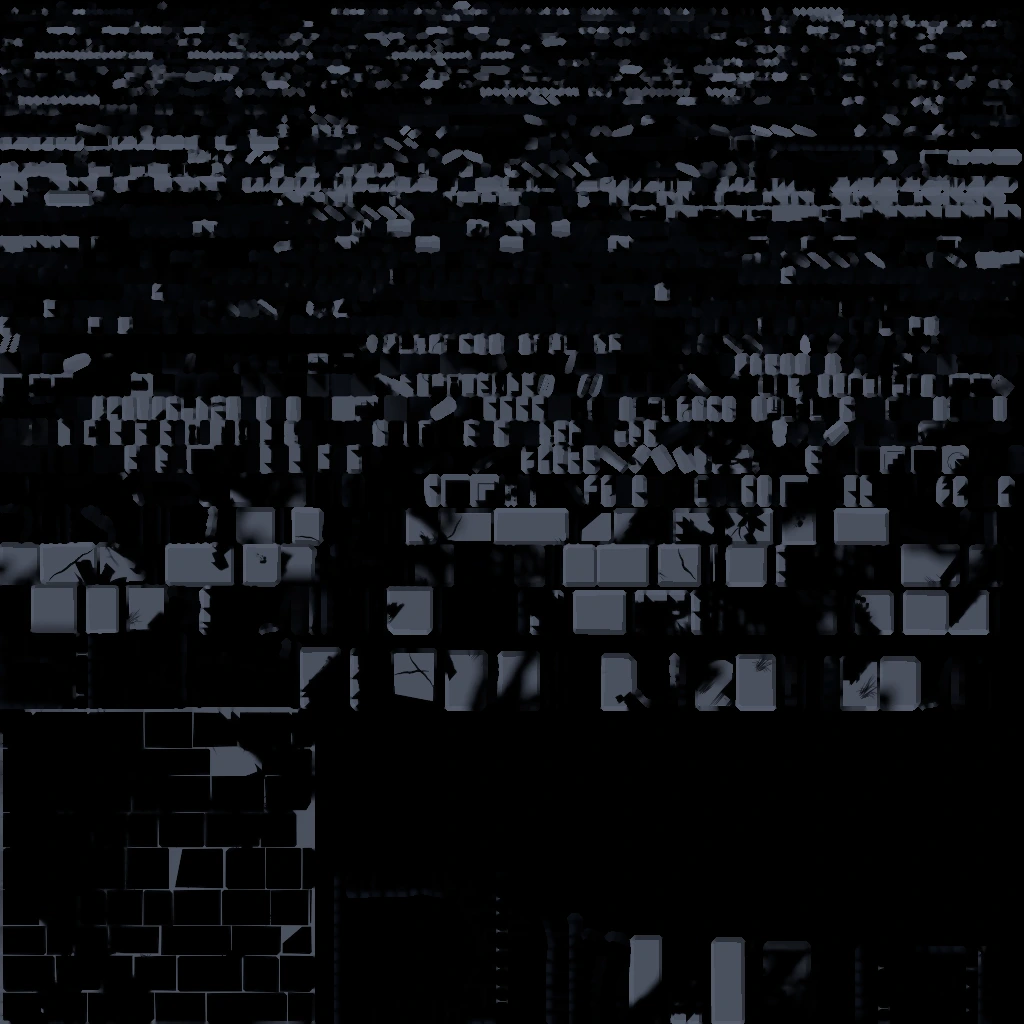
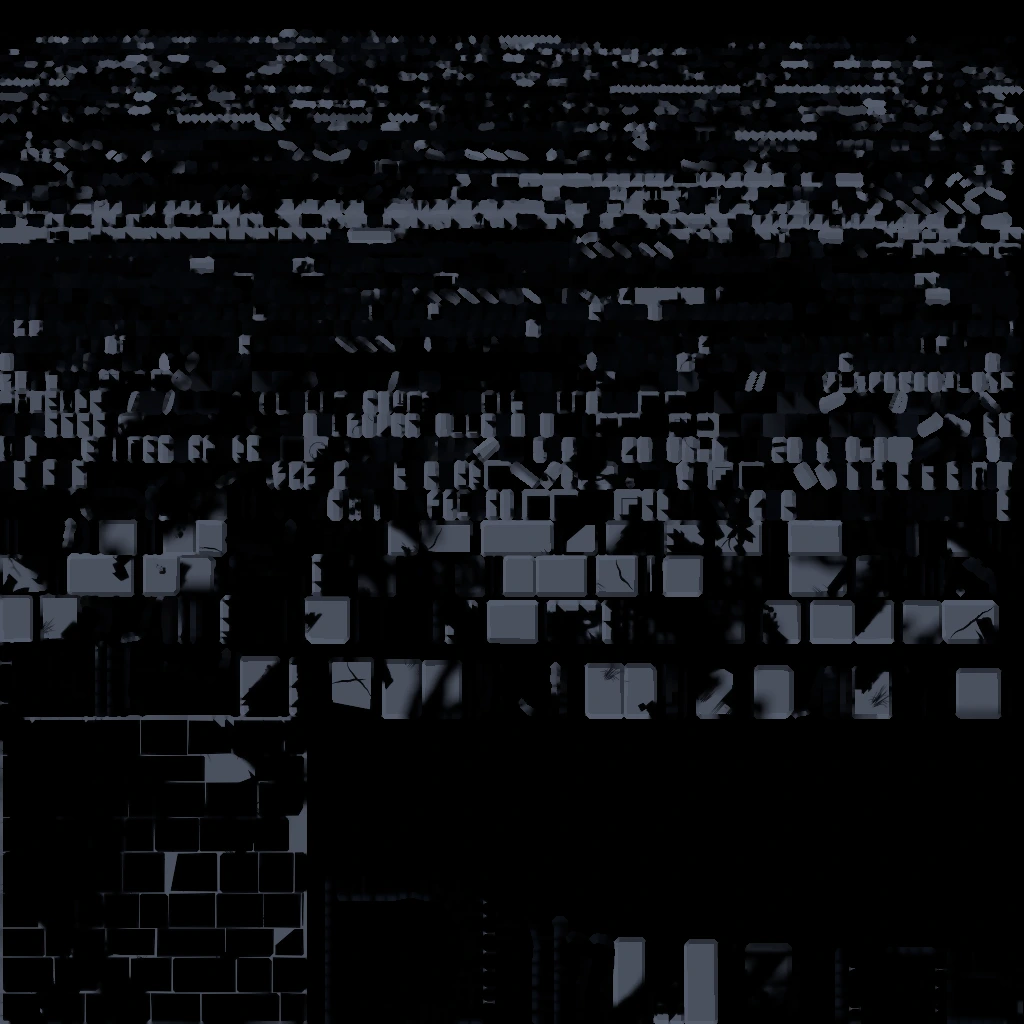
Paint each region's emblem in the Observatory, and give the Knight his corner
Each region's people get an emblem on a painted shield (weavers, clockmakers,
lantern folk, cathedral builders); the Knight's portrait, shield and sword stand
on the Observatory's left wall. One WallArt piece draws them: grey in ruin, their
colour and painted gold back when the room is restored. Region 1's hanging root
frames its emblem; Region 2's hatch gave way to its emblem and its lamp moved.
Region 1 and 2 Observatories rebaked.

diff --git a/apps/web/src/world/observatory/KnightCorner.tsx b/apps/web/src/world/observatory/KnightCorner.tsx
@@ -1,0 +1,110 @@
+import { useTexture } from "@react-three/drei";
+import { useMemo } from "react";
+import { BoxGeometry, CylinderGeometry, ExtrudeGeometry, Shape, SphereGeometry } from "three";
+import { color, mix, vec3 } from "three/tsl";
+import { MeshStandardNodeMaterial } from "three/webgpu";
+import { paintedMaterial, WallArt } from "../room/WallArt";
+import { ruinHere } from "../ruin";
+
+// The Knight's corner in his base (0052: one or two traces of the Knight; 0091): his portrait painted
+// on the left wall, his shield and sword leaning against it below. Shield and sword are made here, in
+// the palace's carved look (0089): iron, worn wood, a painted face.
+
+const FACE = -3.965; // the left wall's inner face (x)
+const SHIELD_W = 0.72; // metres across the shield's full width
+const SHIELD_H = (SHIELD_W * 600) / 512;
+const DEPTH = 0.035;
+const LEAN = 0.2; // radians back toward the wall
+
+/** A plain material that greys and darkens in ruin, like the room's own. */
+function worn(hex: string, { metalness = 0, roughness = 0.8 } = {}) {
+  const m = new MeshStandardNodeMaterial({ metalness, roughness });
+  const c = color(hex);
+  m.colorNode = mix(c, vec3(c.r.add(c.g).add(c.b).div(3)).mul(0.55), ruinHere.mul(0.8));
+  return m;
+}
+
+/** A heater shield, the same outline as the painted emblems (512 × 600 picture space, in 0–1). */
+function shieldGeometry(): ExtrudeGeometry {
+  const p = (x: number, y: number): [number, number] => [x / 512, 1 - y / 600];
+  const s = new Shape();
+  s.moveTo(...p(24, 24));
+  s.lineTo(...p(488, 24));
+  s.lineTo(...p(488, 250));
+  s.bezierCurveTo(...p(488, 420), ...p(380, 520), ...p(256, 580));
+  s.bezierCurveTo(...p(132, 520), ...p(24, 420), ...p(24, 250));
+  s.closePath();
+  // Extruded in picture space so its face's UVs are the picture's; then scaled to metres (x, y only).
+  const g = new ExtrudeGeometry(s, {
+    depth: DEPTH,
+    bevelEnabled: true,
+    bevelThickness: 0.008,
+    bevelSize: 0.012 / SHIELD_W,
+    bevelSegments: 2,
+    curveSegments: 16,
+  });
+  g.translate(-0.5, -0.5, 0);
+  g.scale(SHIELD_W, SHIELD_H, 1);
+  return g;
+}
+
+function Shield({ along }: { along: number }) {
+  const map = useTexture("/art/knight-shield.webp");
+  const { geometry, materials } = useMemo(
+    () => ({
+      geometry: shieldGeometry(),
+      // Group 0 is the face (and back), group 1 the rim.
+      materials: [paintedMaterial(map, { aspect: 512 / 600, seed: 11 }), worn("#5A4636")],
+    }),
+    [map],
+  );
+  // Its foot on the floor, its back against the wall, leaning back a little.
+  const h = SHIELD_H * 0.92; // the point sits a little above the bottom of the picture
+  return (
+    <group position={[FACE, 0, along]} rotation={[0, Math.PI / 2, 0]}>
+      <mesh
+        geometry={geometry}
+        material={materials}
+        position={[0, (h / 2) * Math.cos(LEAN), (h / 2) * Math.sin(LEAN) + DEPTH]}
+        rotation={[-LEAN, 0, 0]}
+        castShadow
+        receiveShadow
+      />
+    </group>
+  );
+}
+
+function Sword({ along }: { along: number }) {
+  const parts = useMemo(() => {
+    const iron = worn("#9A9DA3", { metalness: 0.3, roughness: 0.45 });
+    const bronze = worn("#9C7A45", { metalness: 0.3, roughness: 0.5 });
+    const leather = worn("#4A3628");
+    return [
+      { g: new BoxGeometry(0.05, 0.82, 0.012), m: iron, y: 0.41 }, // blade
+      { g: new BoxGeometry(0.26, 0.035, 0.04), m: bronze, y: 0.84 }, // crossguard
+      { g: new CylinderGeometry(0.016, 0.016, 0.16, 10), m: leather, y: 0.94 }, // grip
+      { g: new SphereGeometry(0.03, 12, 8), m: bronze, y: 1.04 }, // pommel
+    ];
+  }, []);
+  const lean = 0.16;
+  return (
+    <group position={[FACE, 0, along]} rotation={[0, Math.PI / 2, 0]}>
+      <group position={[0, 0, 0.035 + 1.04 * Math.sin(lean)]} rotation={[-lean, 0, 0.05]}>
+        {parts.map((p) => (
+          <mesh key={p.y} geometry={p.g} material={p.m} position={[0, p.y, 0]} castShadow />
+        ))}
+      </group>
+    </group>
+  );
+}
+
+/** Where the corner stands on the left wall (centre of the portrait, metres along z). */
+export function KnightCorner({ along = 1.2 }: { along?: number }) {
+  return (
+    <>
+      <WallArt url="/art/knight-portrait.webp" wall="left" along={along} y={2.05} width={0.95} aspect={512 / 768} />
+      <Shield along={along - 0.1} />
+      <Sword along={along - 0.55} />
+    </>
+  );
+}

diff --git a/apps/web/src/world/room/WallArt.tsx b/apps/web/src/world/room/WallArt.tsx
@@ -1,0 +1,92 @@
+import { useTexture } from "@react-three/drei";
+import { useMemo } from "react";
+import { PlaneGeometry, SRGBColorSpace, type Texture } from "three";
+import { dot, float, min, mix, mx_noise_float, smoothstep, texture, uv, vec2, vec3 } from "three/tsl";
+import { MeshStandardNodeMaterial } from "three/webgpu";
+import { ruinHere } from "../ruin";
+
+// Art the palace's builders painted on their walls (0088, 0091): a region's emblem on a shield, the
+// Knight's portrait, a fresco. Grey and dim in ruin; where the room is restored its colour comes back
+// and the painted gold glows. The gold is found in the picture itself (warm, saturated, bright), so
+// any picture works without a hand-drawn mask. A shape (a shield, an arched panel) keeps its own
+// outline with a few chips of paint missing; a fresco breaks off at its edges and loses patches of
+// plaster, so the wall behind shows through.
+
+const FACE = -3.965; // both walls' inner faces sit here (z for the back wall, x for the left)
+const OFF = 0.012; // just in front of the stone
+
+/** Which wall, how far along it (m, centre), how high (m, centre), how wide (m). */
+export type WallArtMark = {
+  url: string;
+  wall: "back" | "left";
+  along: number;
+  y: number;
+  width: number;
+  /** Width over height of the picture. */
+  aspect: number;
+  /** "shape": the picture's own outline (alpha); "fresco": broken plaster edges and missing patches. */
+  edges?: "shape" | "fresco";
+  seed?: number;
+};
+
+/**
+ * The painted look as a material: faded in ruin, its gold lit where restored, worn. Shared with the
+ * Knight's shield (its painted face).
+ */
+export function paintedMaterial(map: Texture, { edges = "shape", aspect = 1, seed = 0 } = {}) {
+  map.colorSpace = SRGBColorSpace;
+  map.anisotropy = 4;
+  const m = new MeshStandardNodeMaterial({ roughness: 0.95, metalness: 0 });
+  const sample = texture(map);
+  const rgb = sample.rgb;
+
+  // Ruin: the pigment fades to a dim grey with only a trace of its colour.
+  const grey = vec3(dot(rgb, vec3(0.299, 0.587, 0.114)));
+  const faded = mix(rgb, grey.mul(0.6), 0.85);
+  m.colorNode = mix(rgb, faded, ruinHere);
+
+  // The painted gold: warm (little blue against red), with real green in it (not terracotta), bright.
+  const r = rgb.r.max(0.001);
+  const gold = float(1)
+    .sub(smoothstep(0.16, 0.3, rgb.b.div(r)))
+    .mul(smoothstep(0.35, 0.5, rgb.g.div(r)))
+    .mul(smoothstep(0.3, 0.5, rgb.r));
+  const lit = float(1).sub(ruinHere);
+  // A little of its own colour too, so the paint isn't darker than the baked wall round it.
+  m.emissiveNode = rgb.mul(gold.mul(1.4).add(0.12)).mul(lit);
+
+  const at = uv();
+  const noise = (scale: number, offset: number) =>
+    mx_noise_float(at.mul(vec2(scale * aspect, scale)).add(seed + offset));
+  if (edges === "fresco") {
+    const edge = min(min(at.x, float(1).sub(at.x)), min(at.y, float(1).sub(at.y)));
+    const kept = smoothstep(0.0, 0.05, edge.add(noise(9, 0).mul(0.035)));
+    m.opacityNode = kept.mul(float(1).sub(smoothstep(0.52, 0.56, noise(2.2, 7.3))));
+  } else {
+    // Its own outline, with a few small chips where the paint has flaked off.
+    m.opacityNode = sample.a.mul(float(1).sub(smoothstep(0.62, 0.66, noise(5, 3.1))));
+  }
+  m.alphaTest = 0.5;
+  return m;
+}
+
+export function WallArt({ url, wall, along, y, width, aspect, edges = "shape", seed = 0 }: WallArtMark) {
+  const map = useTexture(url);
+  const { geometry, material } = useMemo(
+    () => ({
+      geometry: new PlaneGeometry(width, width / aspect),
+      material: paintedMaterial(map, { edges, aspect, seed }),
+    }),
+    [map, width, aspect, edges, seed],
+  );
+  const position: [number, number, number] = wall === "back" ? [along, y, FACE + OFF] : [FACE + OFF, y, along];
+  return (
+    <mesh
+      geometry={geometry}
+      material={material}
+      position={position}
+      rotation={[0, wall === "back" ? 0 : Math.PI / 2, 0]}
+      receiveShadow
+    />
+  );
+}

diff --git a/apps/web/src/world/observatory/ObservatoryScene.tsx b/apps/web/src/world/observatory/ObservatoryScene.tsx
@@ -6,6 +6,8 @@ import { useSession } from "../../engine/store";
 import { useRegion } from "../region";
 import { Board, Desk } from "../room/Furniture";
 import { MachineScene } from "../room/MachineScene";
+import { WallArt, type WallArtMark } from "../room/WallArt";
+import { KnightCorner } from "./KnightCorner";
 import { KnightLetter } from "./KnightLetter";
 import { LETTER, observatoryLayout } from "./layout";
 import { RUNE_GLOWS, Runes } from "./Runes";
@@ -29,6 +31,24 @@ export function useBarred(): (peer: string) => string | undefined {
   );
 }
 
+/** Each region's emblem on a shield painted on the Observatory's wall (0091), clear of runes and lamps. */
+const EMBLEM = { width: 1.1, aspect: 512 / 600 } as const;
+const EMBLEMS: Record<number, WallArtMark> = {
+  1: { ...EMBLEM, url: "/art/emblem-r1.webp", wall: "left", along: -2.0, y: 1.9 },
+  2: { ...EMBLEM, url: "/art/emblem-r2.webp", wall: "left", along: -2.1, y: 1.65 },
+  // Region 3: in the plaster panel between the corner and the first timber post.
+  3: { ...EMBLEM, url: "/art/emblem-r3.webp", wall: "left", along: -3.0, y: 1.9 },
+  // Region 4: in the plain bay before the tall window.
+  4: { ...EMBLEM, url: "/art/emblem-r4.webp", wall: "left", along: -3.0, y: 1.9 },
+};
+
+/**
+ * Where the Knight's corner stands on the left wall (0091), behind the second-door place (z 1.1–2.9)
+ * where a region has one: Region 3 (one door) uses the panel between the posts at 0 and 2; Region 4
+ * the plain bay after the window, clear of the shaft at 0.
+ */
+const KNIGHT_AT: Record<number, number> = { 1: 0.15, 2: 0.15, 3: 1.0, 4: 0.6 };
+
 export function ObservatoryScene({ arriving = false }: { arriving?: boolean }) {
   const roomId = useSession((s) => s.roomId);
   const barred = useBarred();
@@ -50,6 +70,9 @@ export function ObservatoryScene({ arriving = false }: { arriving?: boolean }) {
     >
       {/* The weavers' runes are Region 1's light; other regions bring their own (layout.glows). */}
       {region === 1 && <Runes />}
+      {/* The region's emblem, painted by its people (0091); the Knight's corner below his portrait. */}
+      {EMBLEMS[region] && <WallArt {...(EMBLEMS[region] as WallArtMark)} />}
+      <KnightCorner along={KNIGHT_AT[region] ?? 0.15} />
       {region === 4 && <Runes set="chapel" />}
       <KnightLetter position={LETTER} />
       <ScryingGlass position={[2.4, 0, 1.6]} region={region} />

diff --git a/apps/web/src/world/bake/manifest.ts b/apps/web/src/world/bake/manifest.ts
@@ -10,10 +10,10 @@ export const BAKES: Record<string, BakeEntry> = {
   "0a2e0f69": { id: "r1-corridor-h8-kit", size: 512, signature: "33e2bd89", v: "044bcbf0" },
   "33644963": { id: "r1-house-d1", size: 1024, signature: "e1e00696", v: "37deb0c4" },
   "6393e302": { id: "r1-house-d1-kit", size: 512, signature: "ba545ab7", v: "b3334979" },
-  c908125d: { id: "r1-observatory-d1", size: 1024, signature: "46c08437", v: "17601b85" },
-  "74952089": { id: "r1-observatory-d1-kit", size: 512, signature: "d9c6d7e0", v: "1e07ea6a" },
-  "563d9383": { id: "r1-observatory-d2", size: 1024, signature: "b93e2d48", v: "e4175274" },
-  "87afc64a": { id: "r1-observatory-d2-kit", size: 512, signature: "474d30fc", v: "b300741d" },
+  cb7c552a: { id: "r1-observatory-d1", size: 1024, signature: "3e4b82ba", v: "b166834c" },
+  "74952089": { id: "r1-observatory-d1-kit", size: 512, signature: "d9c6d7e0", v: "5785da23" },
+  f4d1c458: { id: "r1-observatory-d2", size: 1024, signature: "4069c5f9", v: "89517e06" },
+  "87afc64a": { id: "r1-observatory-d2-kit", size: 512, signature: "474d30fc", v: "969bd58a" },
   "8c072207": { id: "r2-corridor-h5", size: 1024, signature: "607c621a", v: "9de0d28b" },
   f7a1aac8: { id: "r2-corridor-h5-kit", size: 512, signature: "2a4330f3", v: "e38a4b6d" },
   e7a86ef2: { id: "r2-hall-d4", size: 1024, signature: "d71b4331", v: "df2c2bb8" },
@@ -22,8 +22,8 @@ export const BAKES: Record<string, BakeEntry> = {
   e00544a3: { id: "r2-hall-d5-kit", size: 512, signature: "2594e388", v: "06d15f4e" },
   e40aae05: { id: "r2-house-d1", size: 1024, signature: "14c5ed8c", v: "5f39b2fe" },
   "3cd22045": { id: "r2-house-d1-kit", size: 512, signature: "91b6afc1", v: "d11f8ff1" },
-  "772f67b9": { id: "r2-observatory-d1", size: 1024, signature: "c89891c6", v: "2c521889" },
-  aa890f27: { id: "r2-observatory-d1-kit", size: 512, signature: "5673873f", v: "a7401281" },
+  fd37274c: { id: "r2-observatory-d1", size: 1024, signature: "fcbd7184", v: "fc0c27ba" },
+  aa890f27: { id: "r2-observatory-d1-kit", size: 512, signature: "5673873f", v: "1806ea6f" },
   "16c854eb": { id: "r3-corridor-h5", size: 512, signature: "ee3791c6", v: "b11df23b" },
   "0c2f40b2": { id: "r3-corridor-h5-kit", size: 1024, signature: "8953c746", v: "adb8e33a" },
   "8c7e1275": { id: "r3-hall-d3-kit", size: 1024, signature: "9895e213", v: "b70a4244" },

diff --git a/apps/web/src/world/regions/works.ts b/apps/web/src/world/regions/works.ts
@@ -379,7 +379,7 @@ function rotated(g: BufferGeometry, at: V3, euler: V3): BufferGeometry {
 //
 // Gameplay keeps the middle: the keeper in front of the door, the workbench front left, the address
 // card right of the door, the Glass front right. The great gear train is on the back wall left of the
-// door; the card index right of it; a riveted hatch and a smaller train on the left wall.
+// door; the card index right of it; the sorters' emblem and a smaller train on the left wall.
 
 /** The Ruins kit pieces the Observatory keeps here: only the brick on the Knight's letter. */
 export function worksObservatoryPieces(_secondDoor: boolean): Placement[] {
@@ -426,11 +426,11 @@ export function worksObservatory(secondDoor: boolean) {
   vent(bag, steam, [-3.72, 1.75, -0.35], [-3.5, 1.75, -0.35]);
   gauge(bag, "left", -1.0, 2.35, 0.24, 0.13);
   gauge(bag, "back", 3.55, 2.4, 0.12, 0.11);
-  hatch(bag, "left", -2.1, 1.55, 0.38);
+  // The left wall's middle carries the sorters' emblem (0091) and, nearer the front, the Knight's corner.
   // A smaller train over the workbench, where the left wall has room.
   gearTrain(bag, gears, "left", 1.5, 2.05, { size: 0.62, a1: 2.3, a2: 2.6 });
   lamp(bag, glows, "back", -3.25, 2.5, 3.0);
-  lamp(bag, glows, "left", 0.3, 2.15, 3.2);
+  lamp(bag, glows, "left", 0.95, 2.15, 3.2);
   // A great gear fallen from a train, leaning against the card index.
   addTo(bag, "Brass", rotated(gearGeometry(0.42, 12, 0.07, 5), [1.95, 0.42, -3.45], [-0.25, 0.4, 0.2]));
   return {

diff --git a/apps/web/src/world/regions/halls.ts b/apps/web/src/world/regions/halls.ts
@@ -203,16 +203,22 @@ function observatoryRoots(secondDoor: boolean): BufferGeometry[] {
       strands: 2,
       seed: 15,
     },
-    // Over the broken top of the left wall's middle, hanging (above the routes board).
+    // Over the broken top of the left wall's middle, then trained round the top of the weavers'
+    // emblem (0091) and down its far side, clear of the rune below it.
     {
       path: [
         [-4.45, 3.3, -1.2],
         [-3.86, 3.2, -1.25],
-        [-3.82, 2.8, -1.3],
-        [-3.84, 2.4, -1.34],
+        [-3.84, 2.85, -1.32],
+        [-3.87, 2.72, -1.72],
+        [-3.87, 2.76, -2.22],
+        [-3.87, 2.6, -2.66],
+        [-3.87, 2.1, -2.74],
+        [-3.87, 1.55, -2.7],
       ],
-      radius: 0.085,
+      radius: 0.075,
       strands: 2,
+      rootlets: 2,
       seed: 16,
     },
   ];
